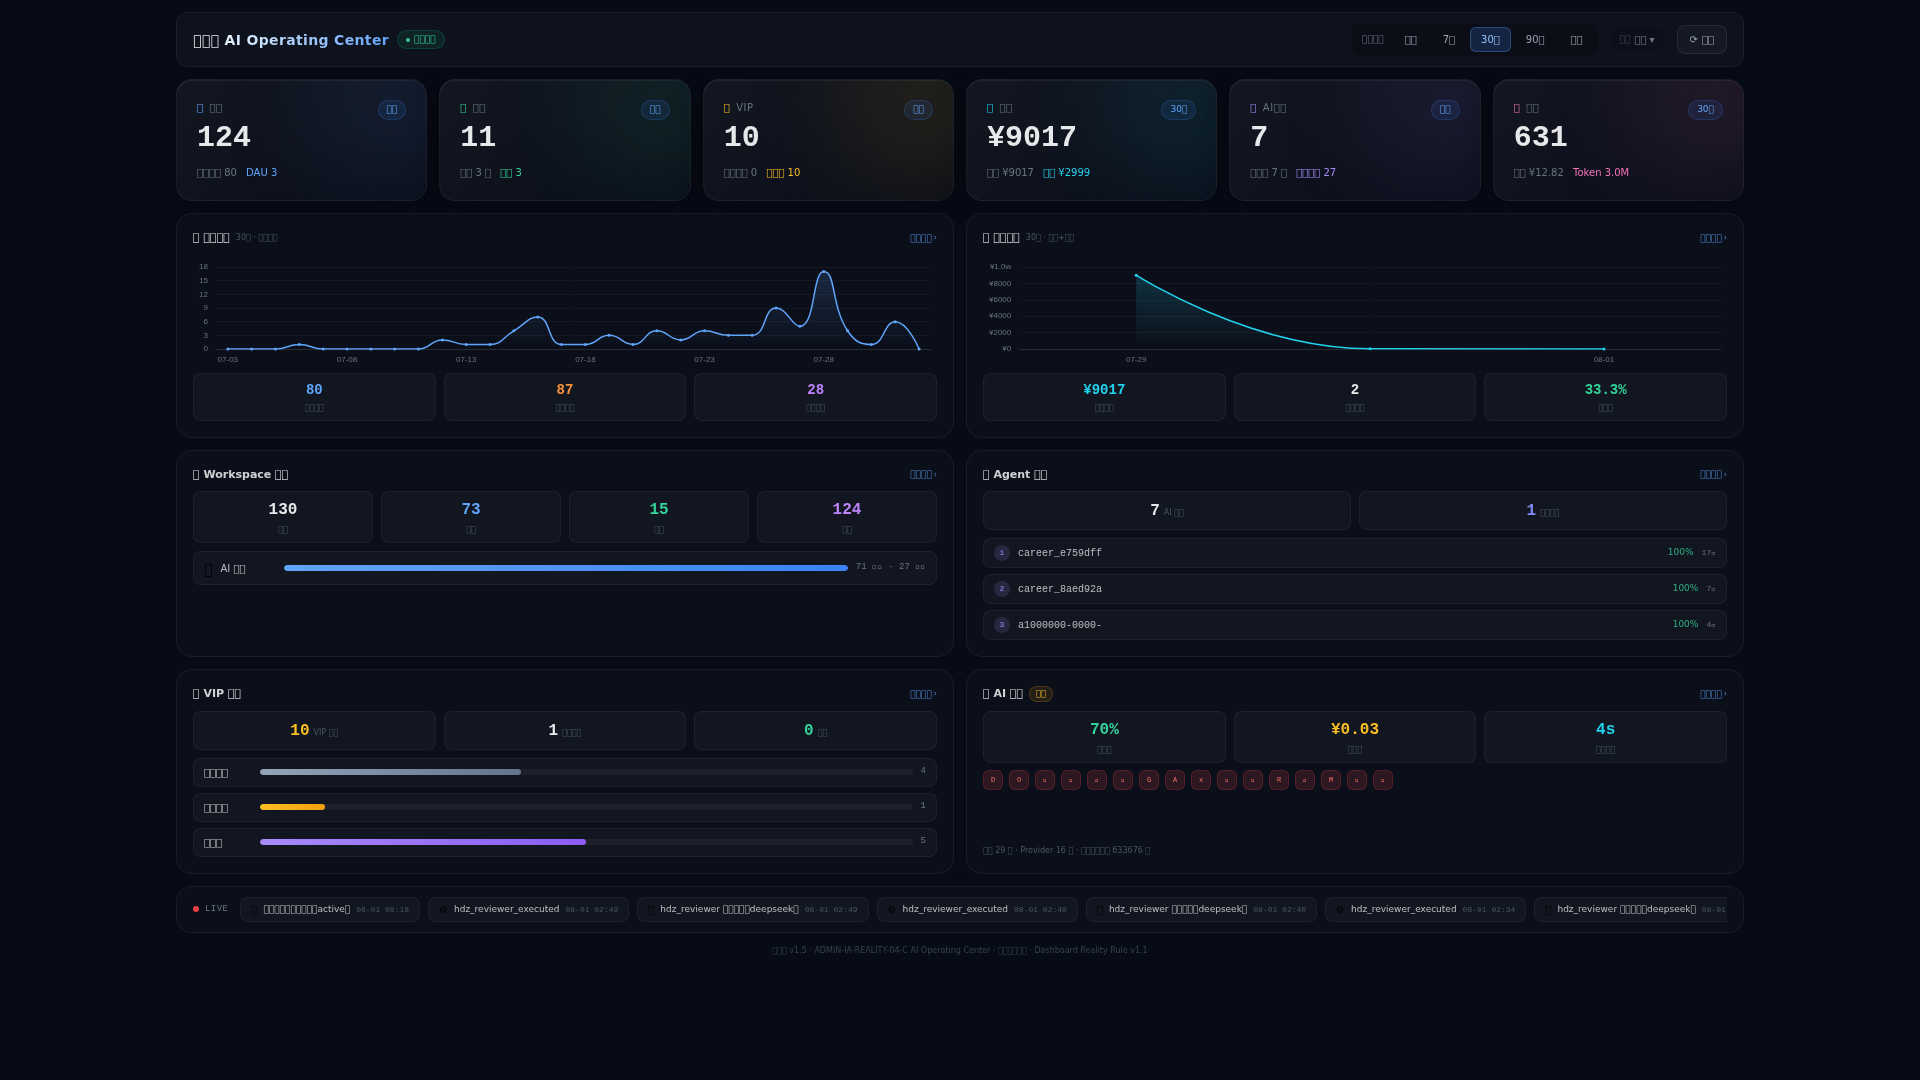
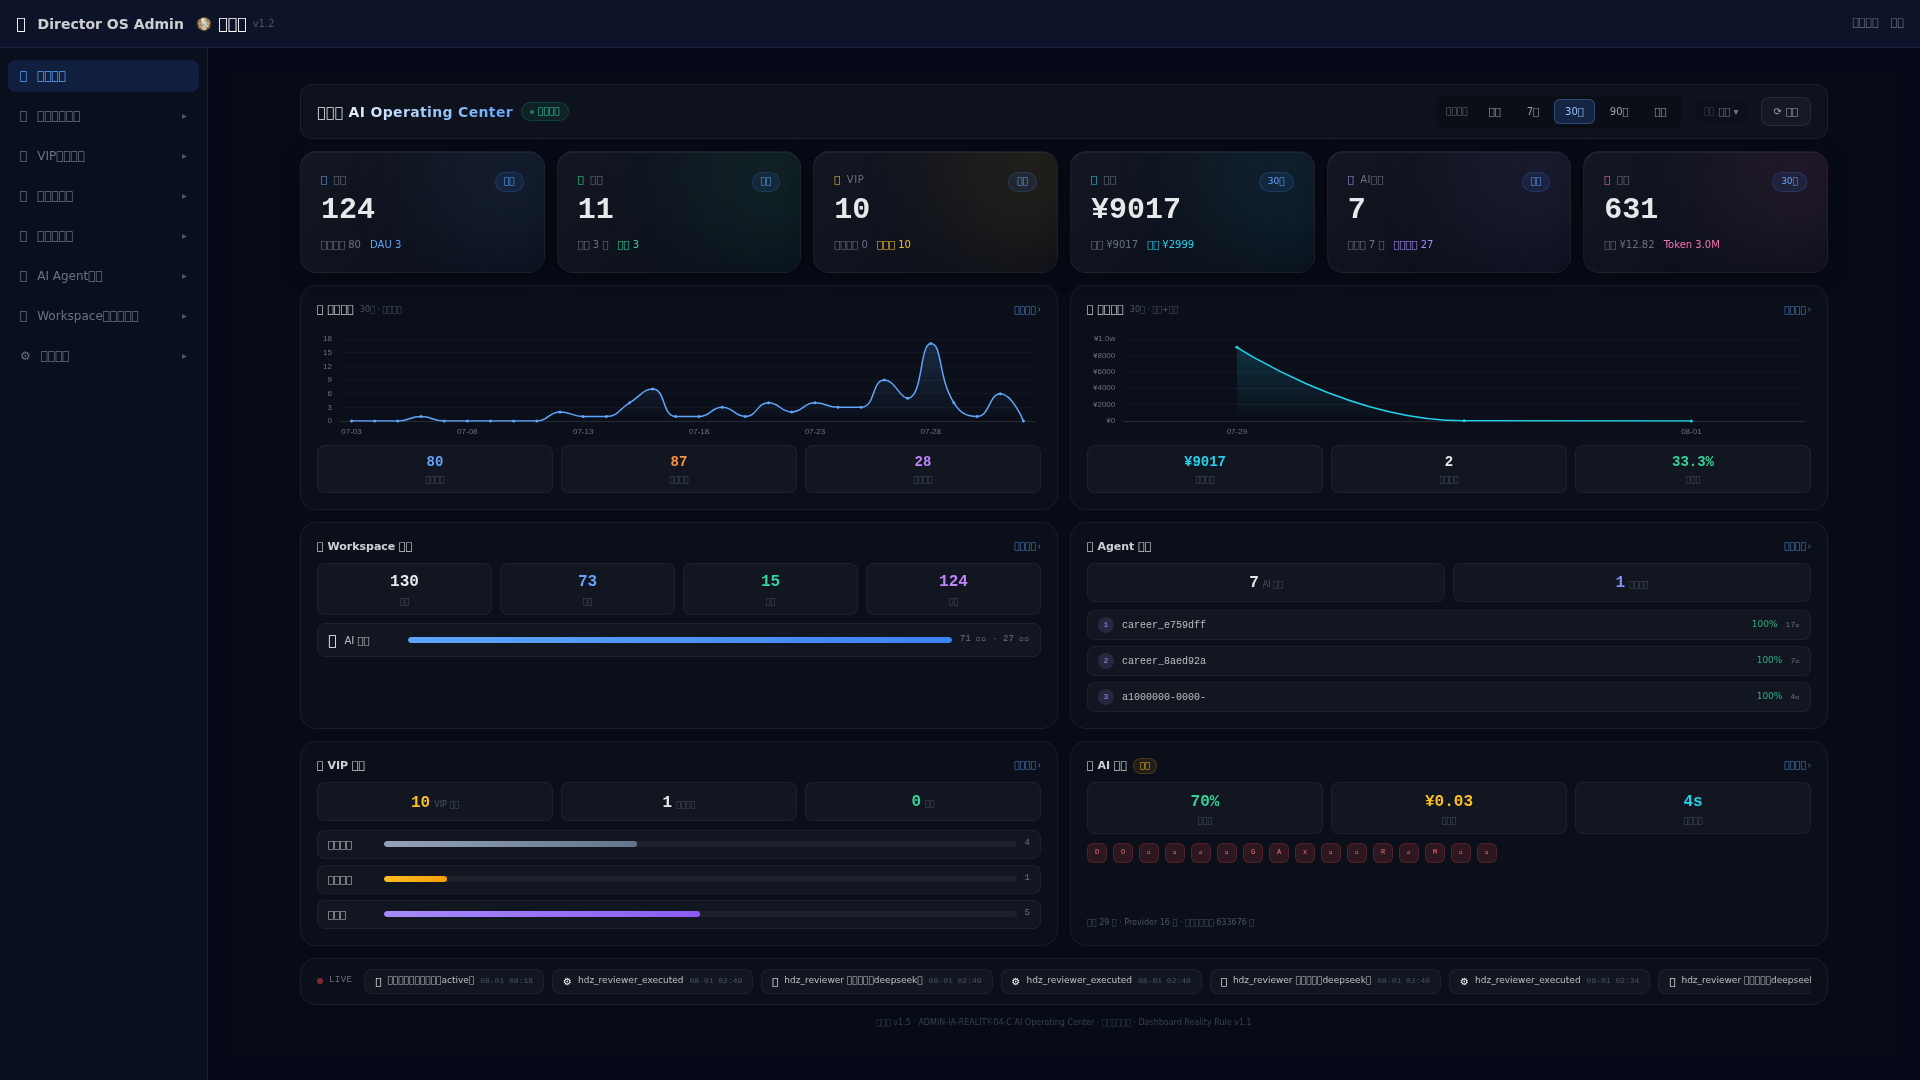
fix(admin-ia): 数据罗盘恢复后台 Admin Layout（左栏导航回归）
掌柜反馈：数据罗盘满屏自绘，后台左栏导航消失。
根因：dashboard.vue 重写时未声明 layout，走了 default.vue，
     admin-aigc 布局（顶栏 + 208px 左侧导航）被丢弃。

修复：
- dashboard.vue 加 definePageMeta({ layout: 'admin-aigc' })
- min-h-screen → min-h-full（避免撑破 main 滚动区）
- max-w 1600→1560 适配内容区（1920-208侧栏-48padding）

验收（1920×1080 浏览器实测）：
- 左栏回归：📊 数据罗盘 + 公共信息/VIP/用户权限/大模型/AI Agent/Workspace 全部分组 ✅
- 顶栏回归：Director OS Admin + 昆仑镜 v1.2 + 退出 ✅
- 首屏仍零滚动：docHeight=1080 == viewport，LIVE 可见 ✅
- 分组展开正常（VIP套餐管理 → 子菜单）✅
- 截图重新存档

diff --git a/frontend/pages/admin/dashboard.vue b/frontend/pages/admin/dashboard.vue
@@ -1,6 +1,6 @@
 <template>
-  <div class="min-h-screen" style="background: #070B16">
-    <div class="max-w-[1600px] mx-auto px-4 py-3 space-y-3">
+  <div class="min-h-full" style="background: #070B16">
+    <div class="max-w-[1560px] mx-auto px-4 py-3 space-y-3">
       <!-- ═══ 顶部控制栏（时间范围联动） ═══ -->
       <TimeRangeBar :model-value="range" :loading="loading" @change="onRangeChange" @refresh="loadAll" />
 
@@ -85,6 +85,8 @@
 <script setup lang="ts">
 import { ref, computed, onMounted } from 'vue'
 import { getToken } from '~/utils/token-cache'
+
+definePageMeta({ layout: 'admin-aigc' })
 
 // 显式 import（Nuxt3 pathPrefix 命名，短名需显式导入）
 import TimeRangeBar from '~/components/admin/dashboard/TimeRangeBar.vue'
